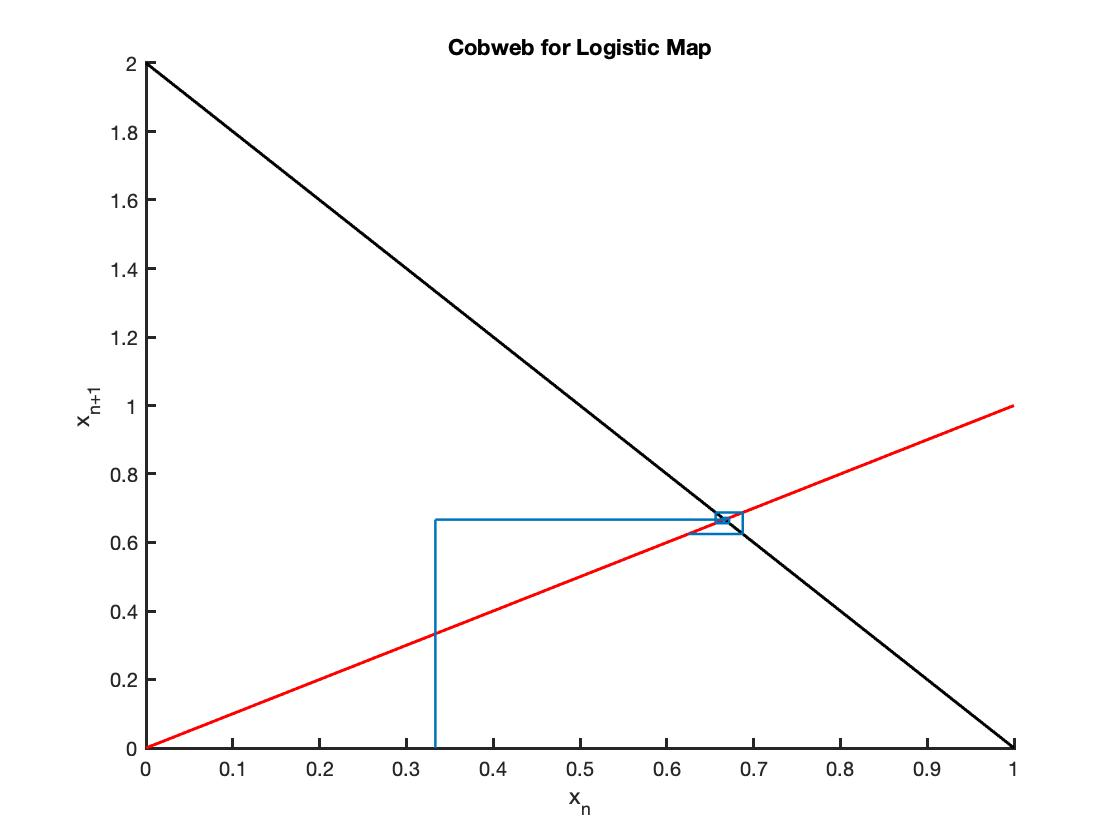
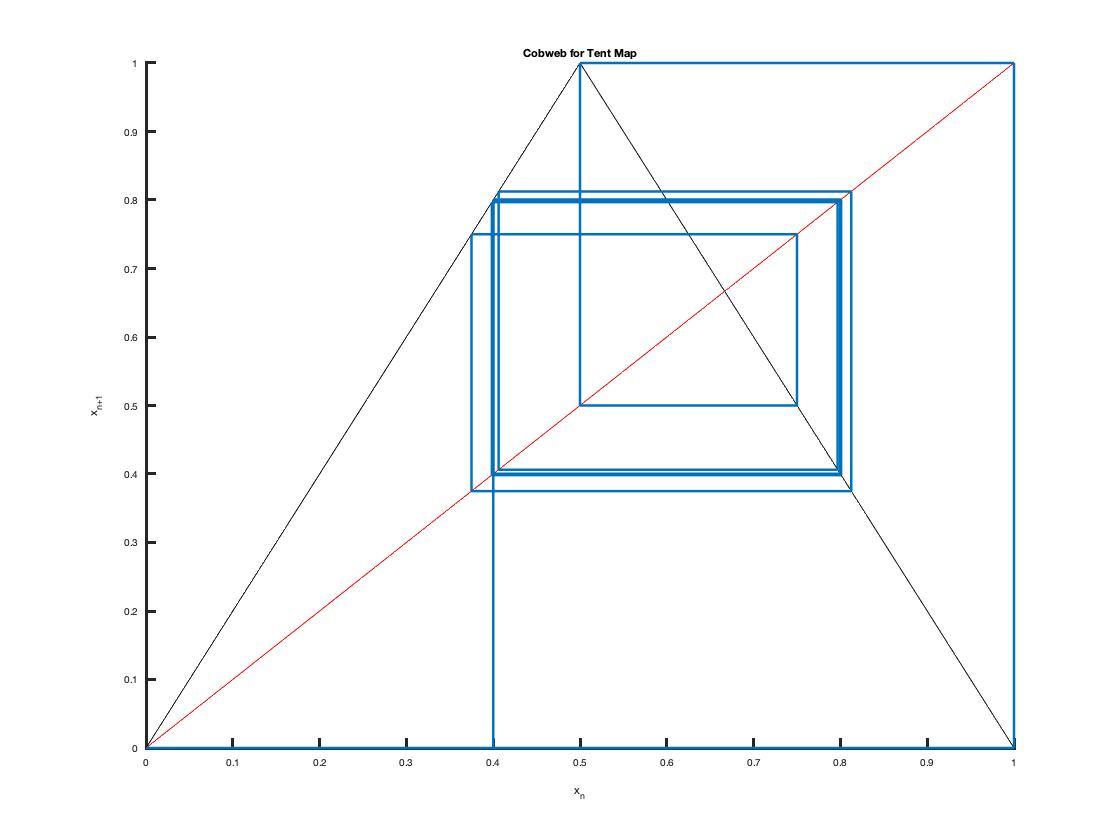
Dev. Homework

diff --git a/Homework 1/Problem 2/cobweb.m b/Homework 1/Problem 2/cobweb.m
@@ -1,6 +1,18 @@
 function cobweb(f, a, b, x0, N, i, z)
     x = linspace(a,b, N); 
     y = f(x);
+    
+%     y = [];
+%     
+%     lengthX = length(x);
+%     for j = 1: lengthX
+%         x1 = x(j);
+%         if x1 < 1/2
+%            y= [y 2*x1];
+%         else
+%            y= [y 2*(1-x1)];
+%         end
+%     end
   
     figure(i)
     
@@ -10,7 +22,7 @@ function cobweb(f, a, b, x0, N, i, z)
     
     xlabel('x_n');
     ylabel('x_{n+1}');
-    title('Cobweb for Logistic Map');
+    title('Cobweb for Tent Map');
     
     x(1) = x0;
     line([x(1),x(1)], [0, f(x(1))], 'LineWidth', 1.25);

diff --git a/Homework 1/Problem 2/graphFunction.m b/Homework 1/Problem 2/graphFunction.m
@@ -2,21 +2,23 @@
 function y=graphFunction(x)
   
 % A. Logistic Equation
-    y = 3.2*x.*(1-x);
-
+%     y = 3.2*x.*(1-x);
+% 
 % B. Composed Logistic Equation
 %     f= 3.5*x.*(1-x);
 %     y= 3.5*f.*(1-f);
 
 % C. Tent Map
+%     y1= 2*x;
+%     y2=2*(1-x);
 %     if x < 1/2 
-%         y= 2*x;
+%         y=y1;
 %     else 
-%         y=2*(1-x);
+%         y=y2;
 %     end
 %         
 
 % D. Circle Map
-%     y =mod(3*x, 1);  
+    y =mod(3*x, 1);  
  
 end

diff --git a/Homework 1/Problem 2/multipleCobwebs.m b/Homework 1/Problem 2/multipleCobwebs.m
@@ -6,9 +6,9 @@
 close all 
 clear all
 
-z = linspace(0,1,10); 
+z = [0 0.1 0.2 0.3 0.4 0.5 0.6 0.7 0.8 0.9 1 ]; 
 lengthZ = length(z);
 
 for i = 1: lengthZ 
-    cobweb(@graphFunction, 0,1, z(i), 50, i, lengthZ);
+    cobweb(@graphFunction, 0,1, z(i), 100, i, lengthZ);
 end

diff --git a/Homework 1/Problem 6/henon.m b/Homework 1/Problem 6/henon.m
@@ -1,7 +1,7 @@
 function z = henon(x0,y0,a,b)
 
 z= zeros(2,1);
-z(1) = a - x0.^2 + b*y0;
-z(2) = x0;
+z(1) = a*x0 - y0.^2;
+z(2) = x0 + a*y0;
 end
 
